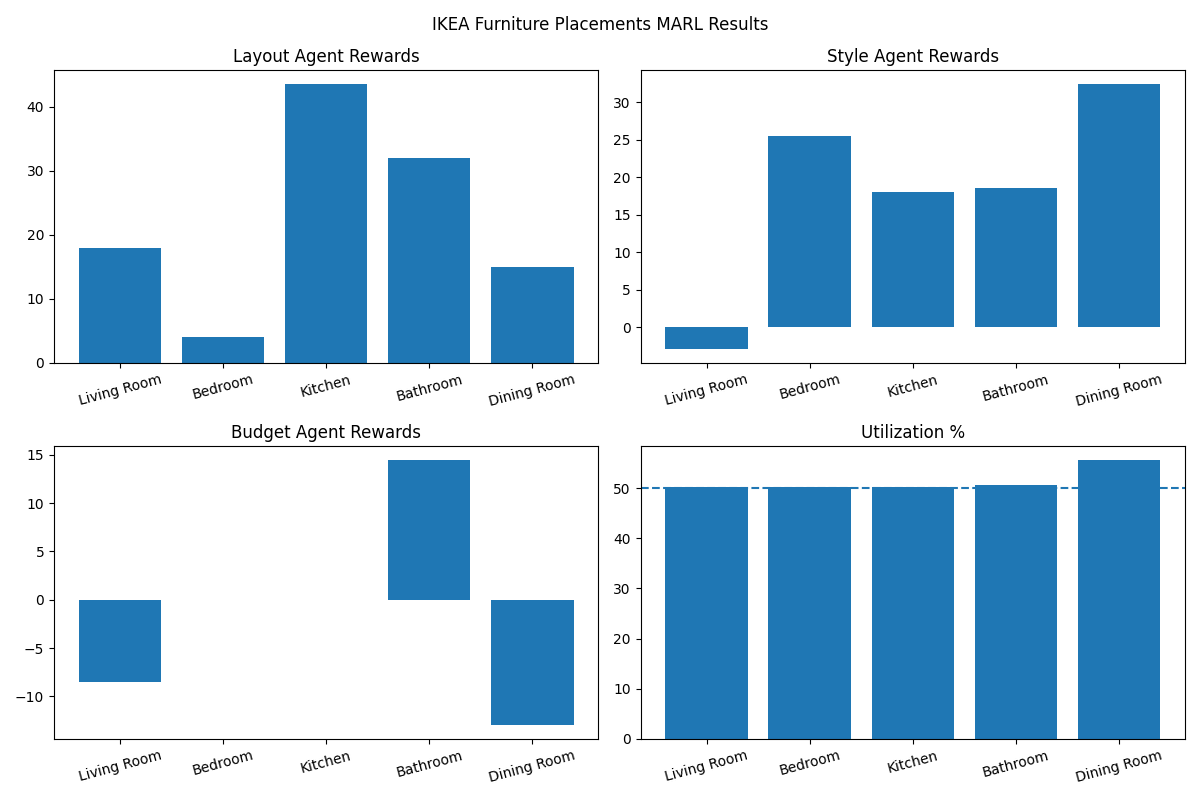
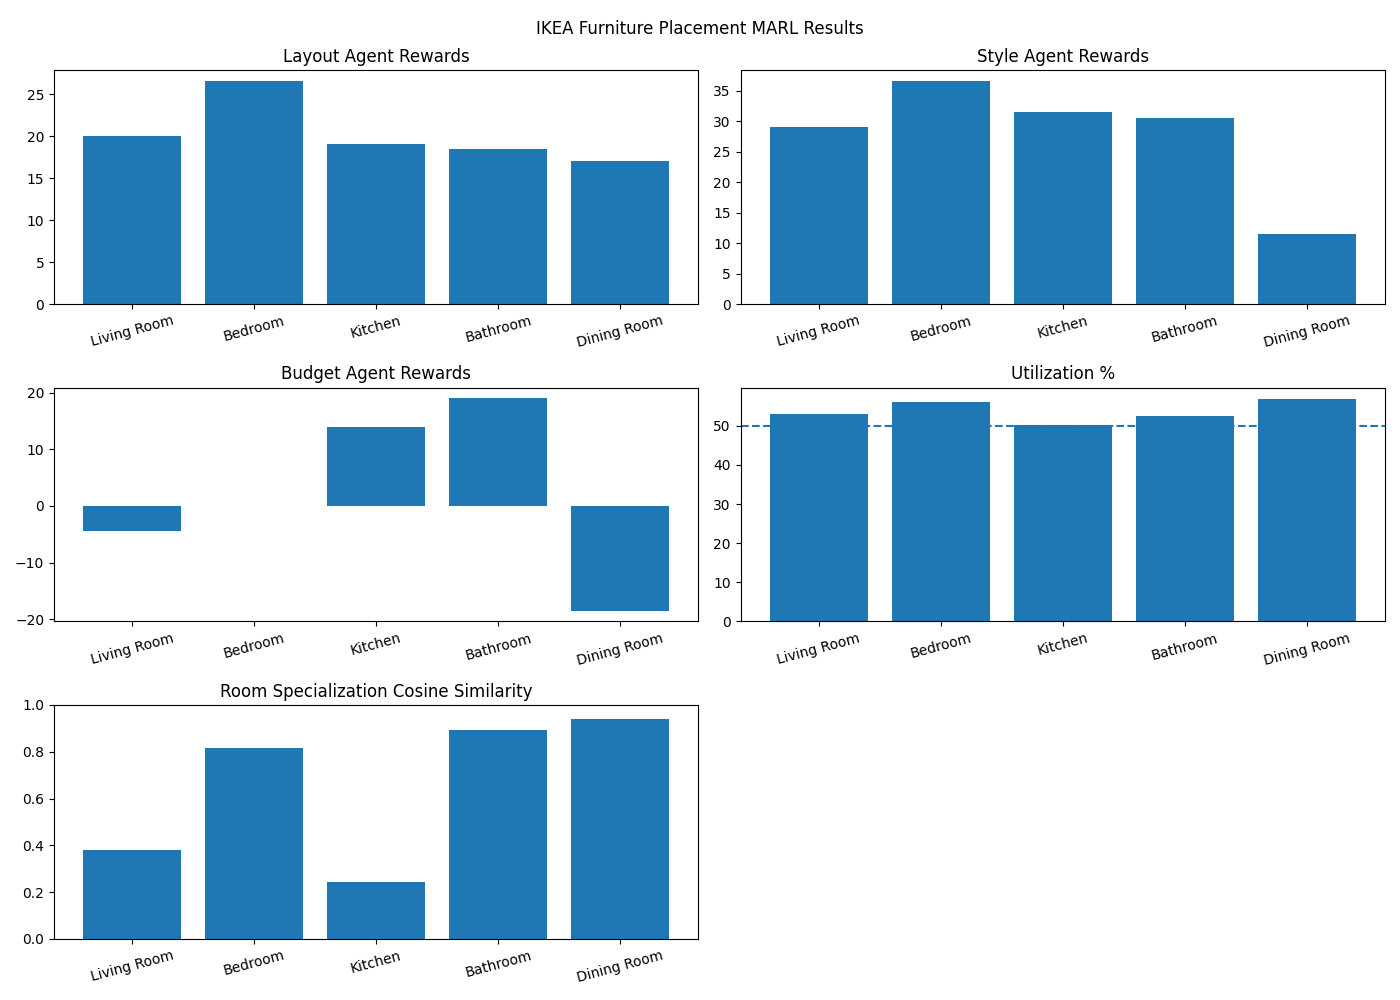
added cosine similarity scorer. works for the most part, need better correlation to dataset for some tests

diff --git a/env/run_ikea_test.py b/env/run_ikea_test.py
@@ -1,12 +1,108 @@
 import matplotlib.pyplot as plt
 from ikea_furniture_env import IKEAFurnitureEnv
+import numpy as np
+from collections import Counter
 
 ROOMS = ["Living Room", "Bedroom", "Kitchen", "Bathroom", "Dining Room"]
+
+#okay so this is added bc i have to map both datasets together for the cosine similarity score. so i was able to essentially merge
+#both of them together by making a map and just filtering things. for example, two seated sofas falls under sofas and armchairs, so
+#do three seated sofas. 
+CATEGORY_MAP = {
+    "Two-Seated Sofas": "Sofas & armchairs", "Three-Seated Sofas": "Sofas & armchairs",
+    "Armchairs": "Sofas & armchairs", "Coffee Tables": "Tables & desks", "Side Tables": "Tables & desks",
+    "TV Benches": "TV & media furniture", "Bookcases": "Bookcases & shelving units", "Shelving Units": "Bookcases & shelving units",
+    "Beds": "Beds", "Wardrobes": "Wardrobes", "Dining Tables": "Tables & desks", "Dining Chairs": "Chairs",
+    "Bathroom Storage": "Cabinets & cupboards", "BathroomBaseCabinets": "Cabinets & cupboards", "Bathroom High Cabinet": "Cabinets & cupboards",
+    "BathroomSinkAccessories": "Cabinets & cupboards", "Kitchen Cabinets": "Cabinets & cupboards", "Kitchen Islands and Trolleys": "Trolleys",
+    "Worktops and Worktop Accessories": "Tables & desks", "Kitchen Splashbacks": "Cabinets & cupboards"
+}
+
+ALL_CATEGORIES = [
+    "Tables & desks", "Bookcases & shelving units", "Chairs", "Sofas & armchairs", "Cabinets & cupboards", "Wardrobes",
+    "Outdoor furniture", "Beds", "TV & media furniture", "Chests of drawers & drawer units", "Children's furniture", "Nursery furniture",
+    "Bar furniture", "Trolleys", "Café furniture", "Sideboards, buffets & console tables", "Room dividers"
+]
+
+#this is probably subject to change, this is just preference. will have to find a way to make this more ideal by doing more research
+IDEAL_ROOMS_AND_PIECES = {
+    "Living Room": {
+        "Sofas & armchairs": 2,
+        "Tables & desks": 1,
+        "TV & media furniture": 3,
+        "Bookcases & shelving units": 2,
+    },
+
+    "Bedroom": {
+        "Beds": 1,
+        "Wardrobes": 2,
+        "Chests of drawers & drawer units": 3,
+    },
+
+    "Kitchen": {
+        "Cabinets & cupboards": 5,
+        "Tables & desks": 2,
+        "Chairs": 4,
+        "Trolleys": 1,
+    },
+
+    "Bathroom": {
+        "Cabinets & cupboards": 2,
+        "Trolleys": 1,
+    },
+
+    "Dining Room": {
+        "Tables & desks": 1,
+        "Chairs": 4,
+        "Sideboards, buffets & console tables": 1,
+    }
+}
+
+
+#this is the main cosine similarity scorer function. 
+#a high cosine similarity score means that the correct furniture was placed accordingly (could have some better improvements)
+#a low cosinse similarity score means that the wrong furniture was placed and lots of room for improvement (dataset related)
+class CosineSimilarityScore:
+    def __init__(self):
+        self.categories = ALL_CATEGORIES
+
+    def normalize_category(self, category):
+        return CATEGORY_MAP.get(category, category)
+
+    def build_vector(self, items_dict):
+        vec = np.zeros(len(self.categories))
+        for i, cat in enumerate(self.categories):
+            vec[i] = items_dict.get(cat, 0)
+        return vec
+
+    def cosine_similarity(self, v1, v2):
+        denom = np.linalg.norm(v1) * np.linalg.norm(v2)
+        if denom == 0:
+            return 0.0
+        return np.dot(v1, v2) / denom
+
+    def score_room(self, room_type, placed_items):
+        placed_counts = Counter()
+        for item in placed_items:
+            if isinstance(item, dict):
+                raw_cat = item.get("category", "")
+            else:
+                continue
+            normalized = self.normalize_category(raw_cat)
+            placed_counts[normalized] += 1
+        placed_vector = self.build_vector(placed_counts)
+        ideal_vector = self.build_vector(IDEAL_ROOMS_AND_PIECES[room_type])
+        return self.cosine_similarity(placed_vector, ideal_vector)
 results = []
+scorer = CosineSimilarityScore()
 print("{}Ikea Furniture Placement Test{}".format('\033[1m', '\033[0m'))
 
 for room in ROOMS:
-    env = IKEAFurnitureEnv(room_type=room, room_size=15, budget_limit=1000)
+    env = IKEAFurnitureEnv(
+        room_type=room,
+        room_size=15,
+        budget_limit=1000
+    )
     env.reset()
     done = False
     rewards = {"layout_agent": 0, "style_agent": 0, "budget_agent": 0}
@@ -22,7 +118,8 @@ for room in ROOMS:
             env.terminations[a] or env.truncations[a]
             for a in env.possible_agents
         )
-
+    similarity = scorer.score_room(room, env.placed_furniture)
+    
     print(f"{room}")
     env.render()
     results.append({
@@ -31,7 +128,8 @@ for room in ROOMS:
         "style": rewards["style_agent"],
         "budget": rewards["budget_agent"],
         "utilization": env.utilization() * 100,
-        "spend": env.total_spend
+        "spend": env.total_spend,
+        "cosine_similarity": similarity
     })
     print('\n')
     print('{}SUMMARY{}'.format('\033[1m', '\033[0m'))
@@ -41,9 +139,9 @@ for room in ROOMS:
     print(f"Spend: ${env.total_spend:.2f}")
     print(f"Utilization: {env.utilization() * 100:.1f}%")
     print("----------------------------------------------")
+    print(f"Cosine Similarity: {similarity:.3f}")
+    print("----------------------------------------------")
 
-
-#plotting the rewards and agents as professor said too
 x = range(len(results))
 labels = [r["room"] for r in results]
 fig, ax = plt.subplots(2, 2, figsize=(12, 8))
@@ -67,8 +165,12 @@ plt.tight_layout()
 plt.savefig("reward_visualization.png")
 plt.show()
 
-#final print focusing on the budget agent
 print('\n')
 print("{}Budget Summary{}".format('\033[1m', '\033[0m'))
 for r in results:
     print(f"{r['room']}: ${r['spend']:.2f}")
+    
+print('\n')
+print("{}Cosine Similarity Score Summary{}".format('\033[1m', '\033[0m'))
+for r in results:
+    print(f"{r['room']}: {r['cosine_similarity']:.3f}")
